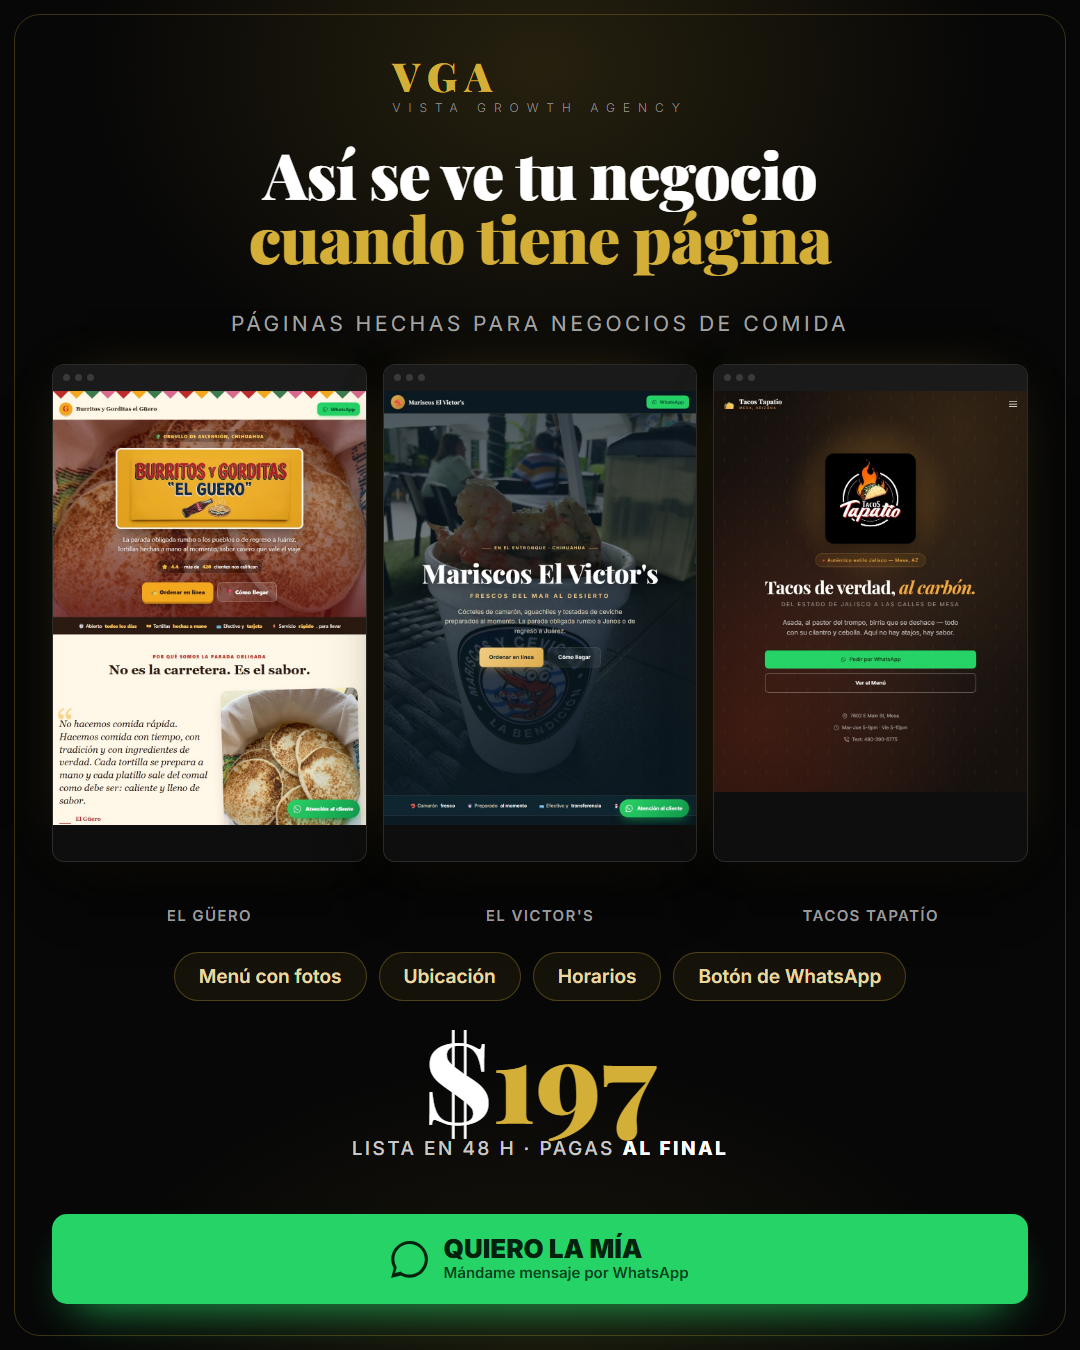
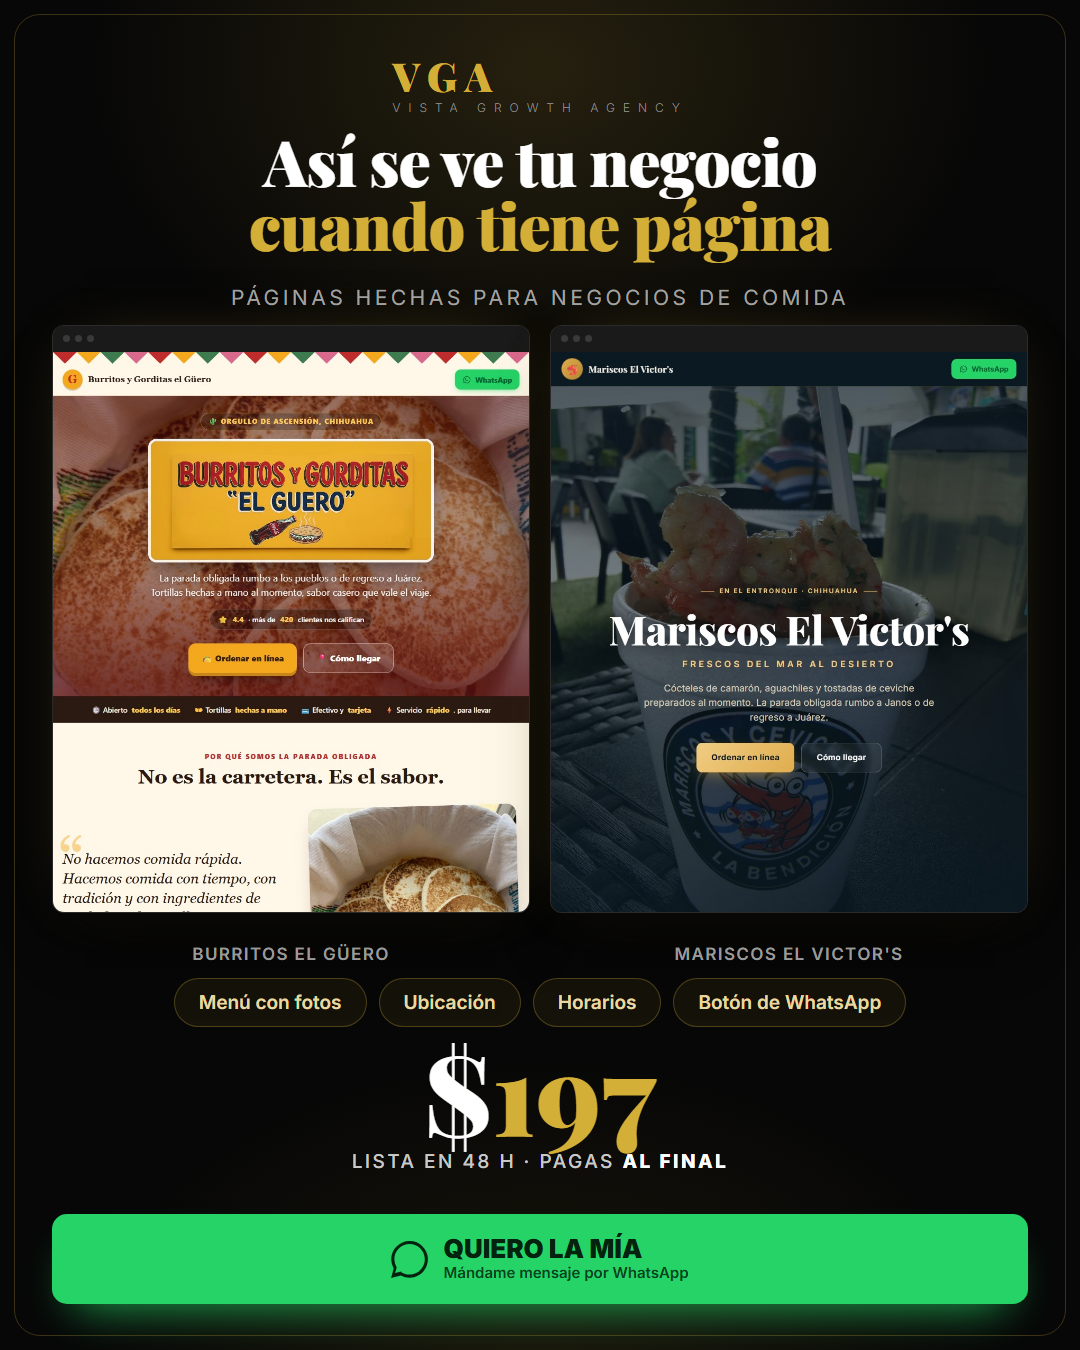
Anuncio portafolio: quitar Tacos Tapatio, dejar solo El Guero y El Victor's
Tapatio es un negocio real de Mesa al que nunca se le vendio la pagina, y el
anuncio esta segmentado justo a duenos de restaurantes de esa zona. El Guero
(papa) y El Victor's (cunado) si tienen permiso de familia.

diff --git a/ad-creatives/rest-d.html b/ad-creatives/rest-d.html
@@ -13,14 +13,14 @@ body{width:1080px;height:1350px;overflow:hidden;font-family:'Inter',sans-serif}
 h1{text-align:center;margin-top:0;font-family:'Playfair Display',serif;font-weight:900;font-size:64px;line-height:1;letter-spacing:-1px}
 h1 em{font-style:normal;color:#D4AF37;display:block}
 .sub{text-align:center;font-size:21px;letter-spacing:3.5px;text-transform:uppercase;color:#a3a3a3;margin-top:14px;font-weight:400}
-.grid{width:100%;margin-top:0;display:flex;gap:16px}
+.grid{width:100%;margin-top:0;display:flex;gap:20px}
 .card{flex:1;background:#0e0e0e;border-radius:12px;overflow:hidden;border:1px solid rgba(255,255,255,.12);box-shadow:0 34px 66px -28px rgba(0,0,0,.92),0 0 60px -34px rgba(212,175,55,.5)}
 .card .bar{height:26px;background:#1a1a1a;display:flex;align-items:center;gap:5px;padding:0 10px}
 .card .bar i{width:7px;height:7px;border-radius:99px;display:block;background:#3a3a3a}
-.card .shot{height:470px;overflow:hidden}
+.card .shot{height:560px;overflow:hidden}
 .card img{display:block;width:100%;height:auto}
-.names{width:100%;margin-top:16px;display:flex;gap:16px}
-.names div{flex:1;text-align:center;font-size:15px;color:#9a9a9a;letter-spacing:1.4px;text-transform:uppercase;font-weight:600}
+.names{width:100%;margin-top:16px;display:flex;gap:20px}
+.names div{flex:1;text-align:center;font-size:17px;color:#9a9a9a;letter-spacing:1.4px;text-transform:uppercase;font-weight:600}
 .feats{width:100%;margin-top:0;display:flex;flex-wrap:wrap;justify-content:center;gap:12px}
 .feats span{border:1px solid rgba(212,175,55,.3);background:rgba(212,175,55,.07);border-radius:99px;padding:12px 24px;font-size:19px;color:#e8d9a3;font-weight:600}
 .offer{padding-top:0;text-align:center}
@@ -41,9 +41,8 @@ h1 em{font-style:normal;color:#D4AF37;display:block}
   <div class="grid">
     <div class="card"><div class="bar"><i></i><i></i><i></i></div><div class="shot"><img src="tall-guero.jpg" alt=""></div></div>
     <div class="card"><div class="bar"><i></i><i></i><i></i></div><div class="shot"><img src="tall-victors.jpg" alt=""></div></div>
-    <div class="card"><div class="bar"><i></i><i></i><i></i></div><div class="shot"><img src="tall-tapatio.jpg" alt=""></div></div>
   </div>
-  <div class="names"><div>El Güero</div><div>El Victor's</div><div>Tacos Tapatío</div></div>
+  <div class="names"><div>Burritos el Güero</div><div>Mariscos El Victor's</div></div>
   <div class="feats"><span>Menú con fotos</span><span>Ubicación</span><span>Horarios</span><span>Botón de WhatsApp</span></div>
   <div class="offer">
     <div class="price">$<b>197</b></div>
